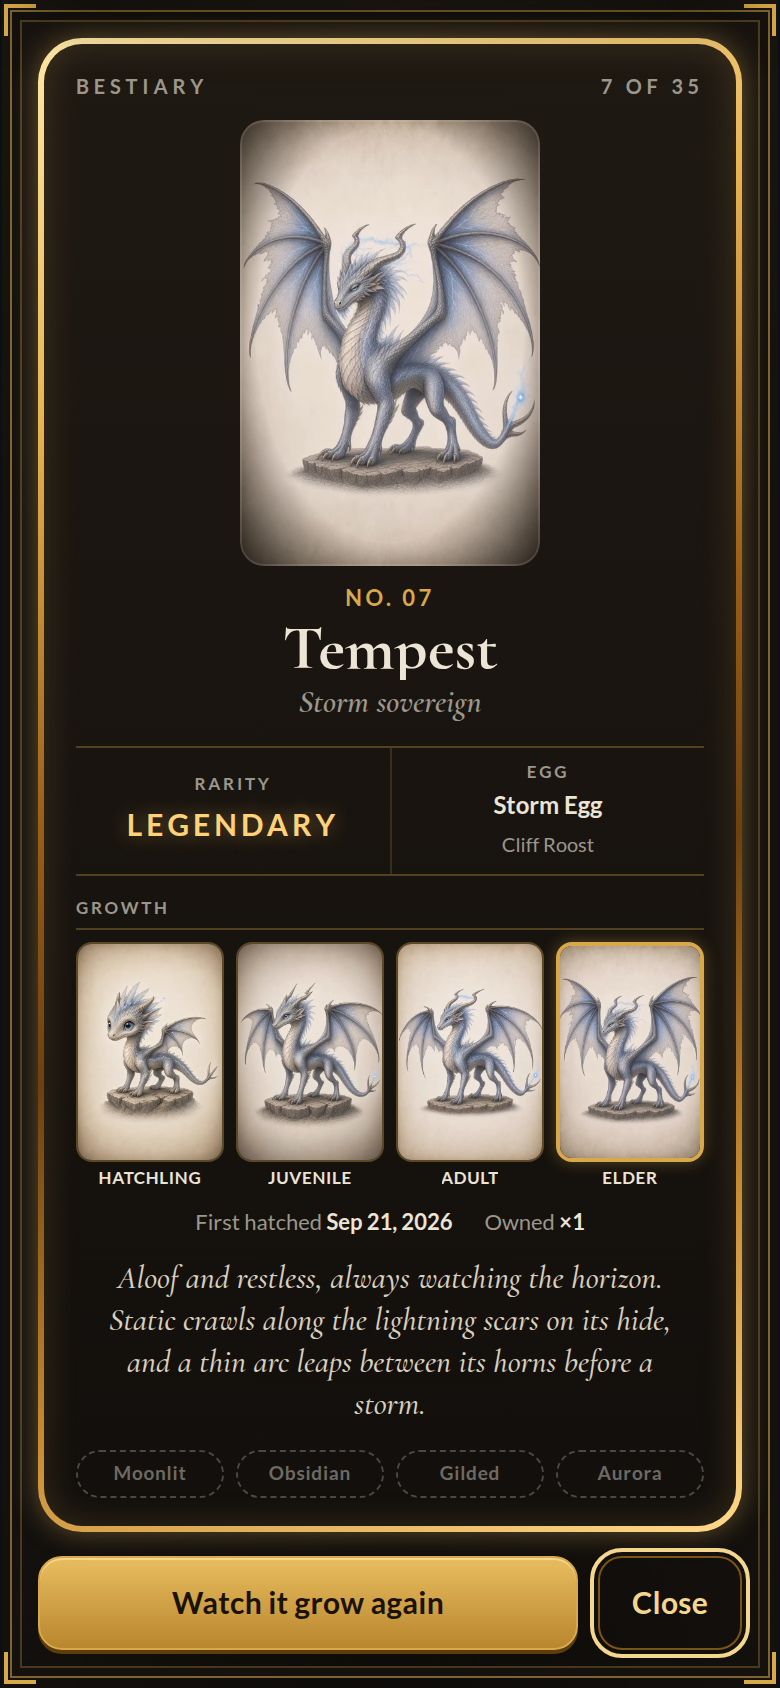
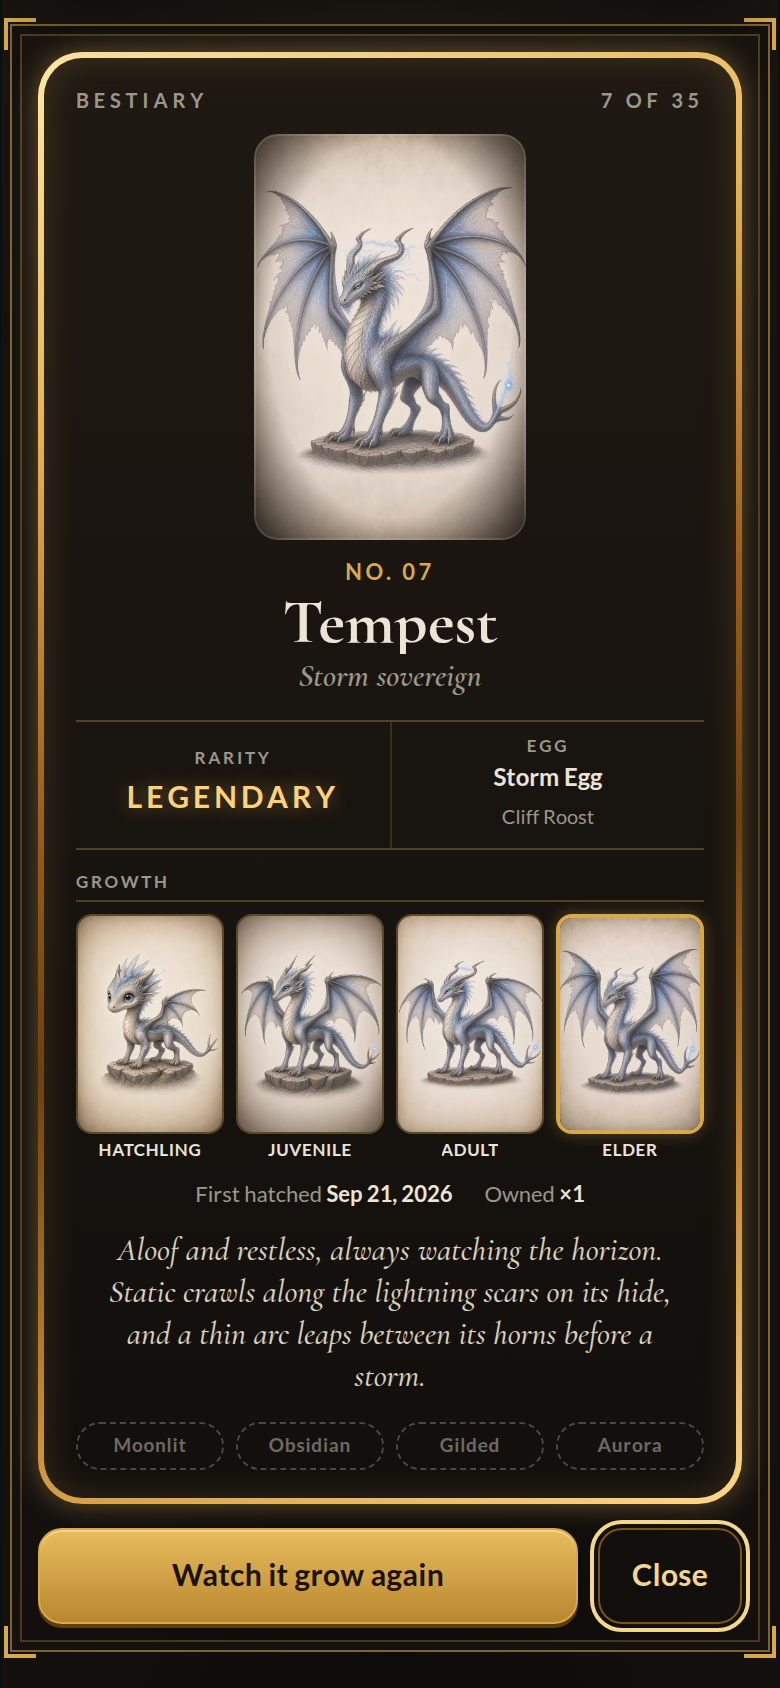
fix: inset the bestiary frame by 8px
Give the detail frame an 8px vertical margin and narrow dragon portraits to 136px so tall sheets keep a dark edge and still fit a 390×844 screen.

Changed region(s): [[0.0, 0.4313, 1.0, 1.0], [0.0, 0.0, 1.0, 0.4313]]

diff --git a/index.html b/index.html
@@ -347,14 +347,14 @@ button.bx:active{transform:scale(.96)}
 #bestiary button.bx.rf-mut{--rf-fill:linear-gradient(180deg,#26283a,#1a1612)}
 #bestiary .bx.rf-none{--rf-fill:linear-gradient(#1a1612,#1a1612)}
 #dexOv{align-items:flex-start;overflow-y:auto;padding:4px;backdrop-filter:none}
-.dex-frame{position:relative;box-sizing:border-box;width:100%;margin-block:auto;padding:14px;display:flex;flex-direction:column;align-items:center;box-shadow:inset 0 0 0 1px rgba(216,169,75,.55),inset 0 0 0 5px #14110e,inset 0 0 0 6px rgba(216,169,75,.28)}
+.dex-frame{position:relative;box-sizing:border-box;width:100%;margin:8px 0;padding:14px;display:flex;flex-direction:column;align-items:center;box-shadow:inset 0 0 0 1px rgba(216,169,75,.55),inset 0 0 0 5px #14110e,inset 0 0 0 6px rgba(216,169,75,.28)}
 .dex-frame .bst-br.tl{top:-3px;left:-3px}
 .dex-frame .bst-br.tr{top:-3px;right:-3px}
 .dex-frame .bst-br.bl{bottom:-3px;left:-3px}
 .dex-frame .bst-br.brb{bottom:-3px;right:-3px}
 .dex-card{width:100%;max-width:360px}
 .dexsheet.dex-dragon .stats{grid-template-columns:1fr 1fr}
-.dexsheet.dex-dragon .plate,.dexsheet.dex-dragon .plate .dart{width:150px}
+.dexsheet.dex-dragon .plate,.dexsheet.dex-dragon .plate .dart{width:136px}
 .dexsheet{--rf-r:22px;--rf-fill:linear-gradient(180deg,#1f1913,#120f0c);padding:16px 16px 14px;text-align:center}
 .dexsheet.rf-mut{--rf-fill:linear-gradient(180deg,#27233c,#120f0c)}
 .dexsheet .brand{font:700 10px/1 var(--body);letter-spacing:.24em;text-transform:uppercase;color:var(--muted);display:flex;justify-content:space-between}
